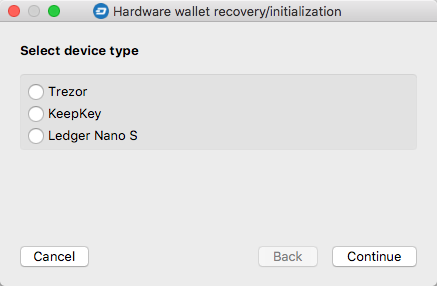
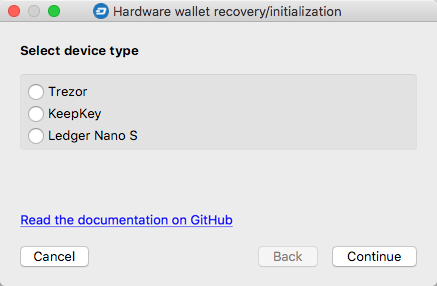
Link to the documentation on the hw initialize/recover dialog. Resized screenshots for the upcoming documentation.

Changed region(s): [[0.0297, 0.7552, 0.5355, 0.8112]]

diff --git a/src/ui/ui_initialize_hw_dlg.py b/src/ui/ui_initialize_hw_dlg.py
@@ -11,7 +11,7 @@ from PyQt5 import QtCore, QtGui, QtWidgets
 class Ui_HwInitializeDlg(object):
     def setupUi(self, HwInitializeDlg):
         HwInitializeDlg.setObjectName("HwInitializeDlg")
-        HwInitializeDlg.resize(598, 420)
+        HwInitializeDlg.resize(598, 446)
         self.verticalLayout = QtWidgets.QVBoxLayout(HwInitializeDlg)
         self.verticalLayout.setContentsMargins(8, 8, 8, 8)
         self.verticalLayout.setSpacing(8)
@@ -22,9 +22,10 @@ class Ui_HwInitializeDlg(object):
         self.pgStepDeviceType.setObjectName("pgStepDeviceType")
         self.verticalLayout_12 = QtWidgets.QVBoxLayout(self.pgStepDeviceType)
         self.verticalLayout_12.setObjectName("verticalLayout_12")
-        self.lblStep0Title_2 = QtWidgets.QLabel(self.pgStepDeviceType)
-        self.lblStep0Title_2.setObjectName("lblStep0Title_2")
-        self.verticalLayout_12.addWidget(self.lblStep0Title_2)
+        self.lblStepDeviceType = QtWidgets.QLabel(self.pgStepDeviceType)
+        self.lblStepDeviceType.setOpenExternalLinks(True)
+        self.lblStepDeviceType.setObjectName("lblStepDeviceType")
+        self.verticalLayout_12.addWidget(self.lblStepDeviceType)
         self.gbDeviceType = QtWidgets.QGroupBox(self.pgStepDeviceType)
         self.gbDeviceType.setTitle("")
         self.gbDeviceType.setObjectName("gbDeviceType")
@@ -71,10 +72,11 @@ class Ui_HwInitializeDlg(object):
         self.verticalLayout_5 = QtWidgets.QVBoxLayout(self.pgStepActionType)
         self.verticalLayout_5.setContentsMargins(6, 6, 6, 6)
         self.verticalLayout_5.setObjectName("verticalLayout_5")
-        self.lblStep1Title = QtWidgets.QLabel(self.pgStepActionType)
-        self.lblStep1Title.setWordWrap(True)
-        self.lblStep1Title.setObjectName("lblStep1Title")
-        self.verticalLayout_5.addWidget(self.lblStep1Title)
+        self.lblStepActionTitle = QtWidgets.QLabel(self.pgStepActionType)
+        self.lblStepActionTitle.setWordWrap(True)
+        self.lblStepActionTitle.setOpenExternalLinks(True)
+        self.lblStepActionTitle.setObjectName("lblStepActionTitle")
+        self.verticalLayout_5.addWidget(self.lblStepActionTitle)
         self.gbSeedSource = QtWidgets.QGroupBox(self.pgStepActionType)
         self.gbSeedSource.setTitle("")
         self.gbSeedSource.setFlat(False)
@@ -371,6 +373,14 @@ class Ui_HwInitializeDlg(object):
         self.verticalLayout_10.addWidget(self.lblStep5Tile)
         self.tabSteps.addWidget(self.pgStepSummary)
         self.verticalLayout.addWidget(self.tabSteps)
+        self.horizontalLayout_4 = QtWidgets.QHBoxLayout()
+        self.horizontalLayout_4.setContentsMargins(6, -1, -1, -1)
+        self.horizontalLayout_4.setObjectName("horizontalLayout_4")
+        self.label_2 = QtWidgets.QLabel(HwInitializeDlg)
+        self.label_2.setOpenExternalLinks(True)
+        self.label_2.setObjectName("label_2")
+        self.horizontalLayout_4.addWidget(self.label_2)
+        self.verticalLayout.addLayout(self.horizontalLayout_4)
         self.widget = QtWidgets.QWidget(HwInitializeDlg)
         self.widget.setObjectName("widget")
         self.horizontalLayout = QtWidgets.QHBoxLayout(self.widget)
@@ -392,18 +402,19 @@ class Ui_HwInitializeDlg(object):
         self.verticalLayout.addWidget(self.widget)
 
         self.retranslateUi(HwInitializeDlg)
-        self.tabSteps.setCurrentIndex(2)
+        self.tabSteps.setCurrentIndex(0)
         QtCore.QMetaObject.connectSlotsByName(HwInitializeDlg)
 
     def retranslateUi(self, HwInitializeDlg):
         _translate = QtCore.QCoreApplication.translate
         HwInitializeDlg.setWindowTitle(_translate("HwInitializeDlg", "Dialog"))
-        self.lblStep0Title_2.setText(_translate("HwInitializeDlg", "<b>Select device type</b>"))
+        self.lblStepDeviceType.setText(_translate("HwInitializeDlg", "<b>Select device type</b>\n"
+""))
         self.rbDeviceTrezor.setText(_translate("HwInitializeDlg", "Trezor"))
         self.rbDeviceKeepkey.setText(_translate("HwInitializeDlg", "KeepKey"))
         self.rbDeviceLedger.setText(_translate("HwInitializeDlg", "Ledger Nano S"))
         self.lblStepDeviceInstanceMessage.setText(_translate("HwInitializeDlg", "<b>Select which device you want to use</b>"))
-        self.lblStep1Title.setText(_translate("HwInitializeDlg", "<b>Select the action to perform</b>"))
+        self.lblStepActionTitle.setText(_translate("HwInitializeDlg", "<b>Select the action to perform</b>"))
         self.rbActRecoverWordsSafe.setText(_translate("HwInitializeDlg", "Recover hardware wallet from seed words - safe"))
         self.rbActRecoverMnemonicWords.setText(_translate("HwInitializeDlg", "Recover hardware wallet from seed words - convenient"))
         self.rbActRecoverHexEntropy.setText(_translate("HwInitializeDlg", "Recover hardware wallet from hexadecimal entropy"))
@@ -439,6 +450,7 @@ class Ui_HwInitializeDlg(object):
         self.label_5.setText(_translate("HwInitializeDlg", "Dash addresses which will be available in the device after finishing the process:"))
         self.lblHwOptionsMessage1.setText(_translate("HwInitializeDlg", "Entropy:"))
         self.lblStep5Tile.setText(_translate("HwInitializeDlg", "<b>Operation successfully finished.</b>"))
+        self.label_2.setText(_translate("HwInitializeDlg", "<a href=\"https://github.com/Bertrand256/dash-masternode-tool/blob/master/doc/hw-initialization-recovery.md\">Read the documentation on GitHub</a>"))
         self.btnCancel.setText(_translate("HwInitializeDlg", "Cancel"))
         self.btnBack.setText(_translate("HwInitializeDlg", "Back"))
         self.btnNext.setText(_translate("HwInitializeDlg", "Continue"))

diff --git a/src/initialize_hw_dlg.py b/src/initialize_hw_dlg.py
@@ -66,7 +66,7 @@ class HwInitializeDlg(QDialog, ui_initialize_hw_dlg.Ui_HwInitializeDlg, WndUtils
 
     def setupUi(self):
         ui_initialize_hw_dlg.Ui_HwInitializeDlg.setupUi(self, self)
-        self.setWindowTitle("Hardware wallet recovery/initialization")
+        self.setWindowTitle("Hardware wallet initialization/recovery")
 
         self.viewMnemonic.verticalHeader().setDefaultSectionSize(
             self.viewMnemonic.verticalHeader().fontMetrics().height() + 6)
@@ -125,6 +125,7 @@ class HwInitializeDlg(QDialog, ui_initialize_hw_dlg.Ui_HwInitializeDlg, WndUtils
         QShortcut(QKeySequence("Ctrl+V"), self.viewMnemonic).activated.connect(self.on_actPasteWords_triggered)
 
         self.fraDetails.setVisible(False)
+        self.resize(self.size().width(), 350)
         self.apply_current_step_to_ui()
         self.update_current_tab()
 
@@ -518,7 +519,7 @@ class HwInitializeDlg(QDialog, ui_initialize_hw_dlg.Ui_HwInitializeDlg, WndUtils
                 if msg_text:
                     msg_text += '<br>'
                 msg_text += '<b>Important!</b> To make hardware wallet devices visible on linux, ' \
-                            'add the appropriate udev rules (<a href="udev_linux">see details</a>).'
+                            'add the appropriate udev rules (<a href="udev_linux">see the details</a>).'
             self.lblStepDeviceTypeMessage.setText(msg_text)
 
         elif self.current_step == STEP_SELECT_DEVICE_INSTANCE:
